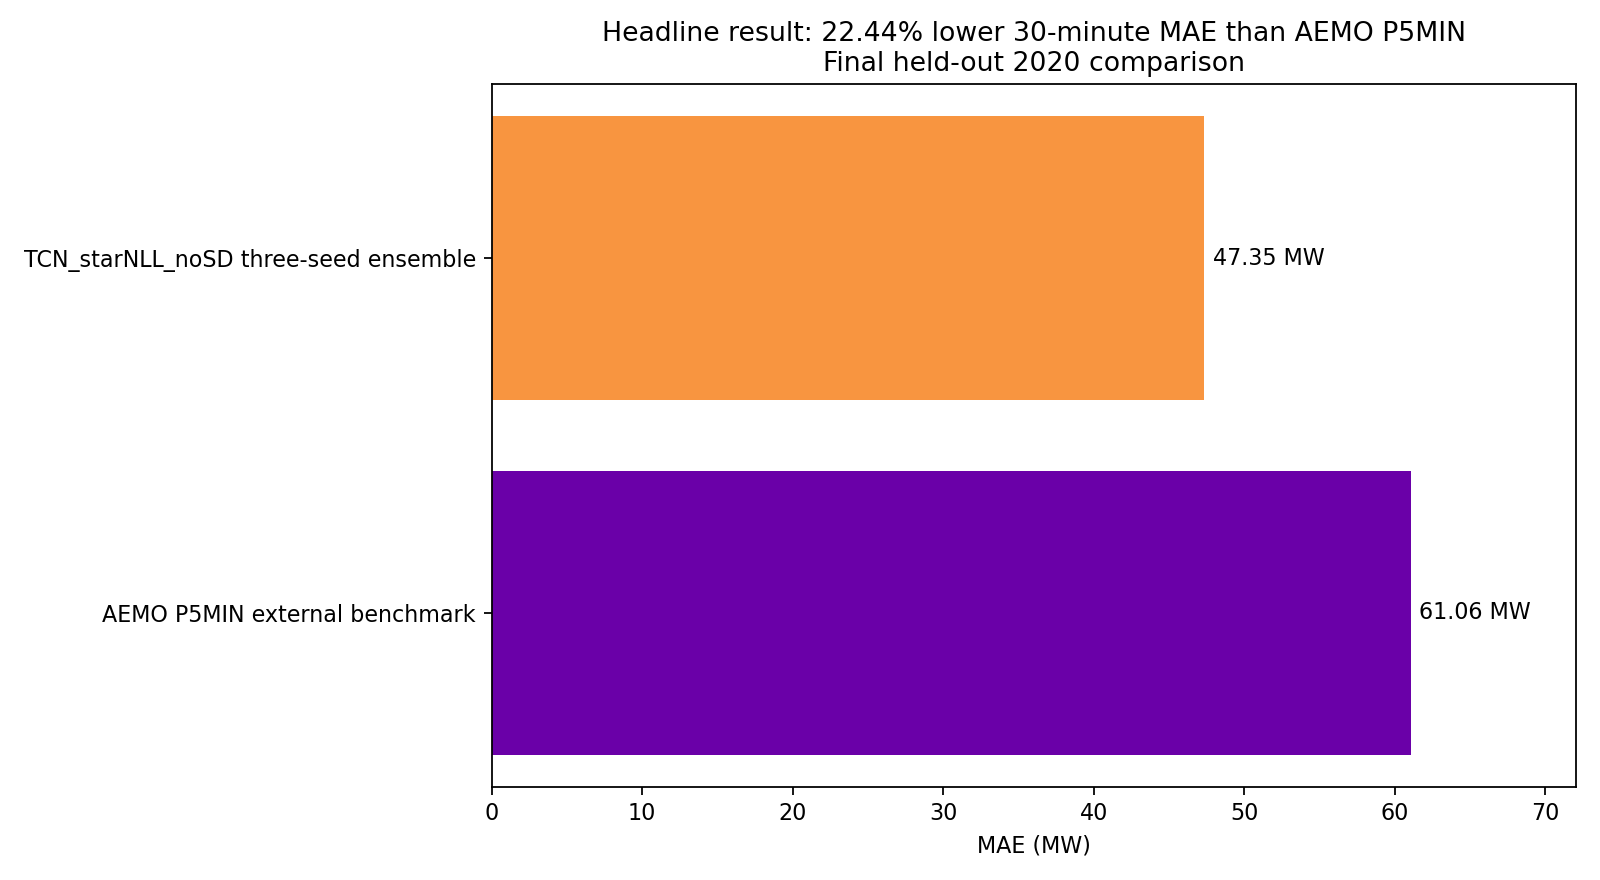
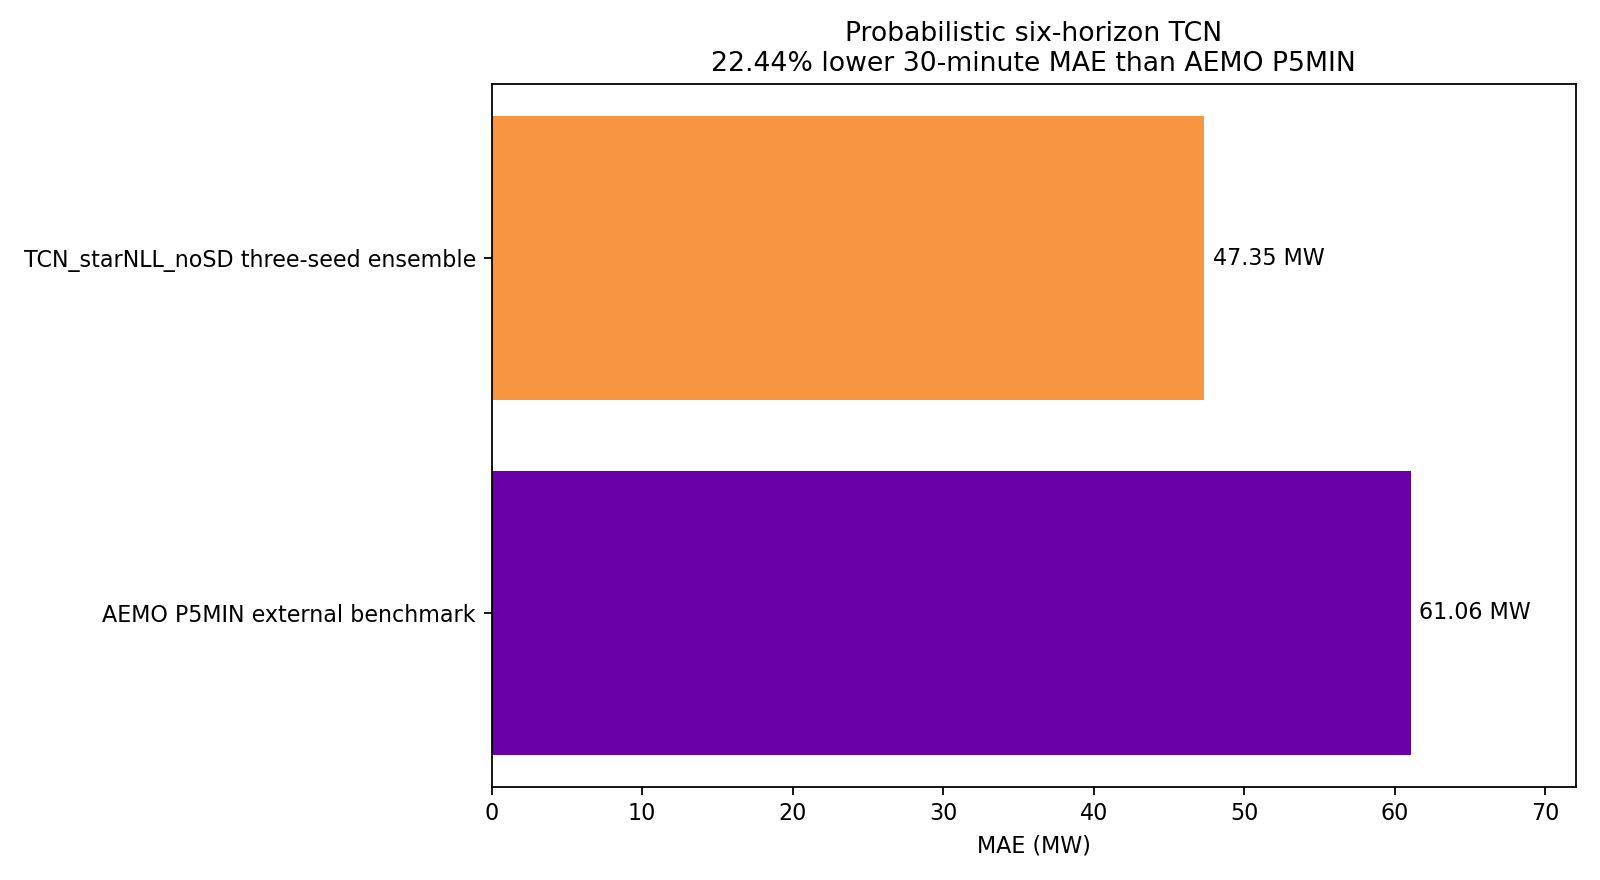
Highlight probabilistic forecast capability

Changed region(s): [[0.375, 0.0, 0.9062, 0.092]]

diff --git a/tools/build_reference_section.py b/tools/build_reference_section.py
@@ -313,8 +313,8 @@ def render_final_30m_figure(comparison: pd.DataFrame, output_directory: Path) ->
     bars = ax.barh(ordered["model"], ordered["mae_30m_mw"], color=colors)
     ax.set(
         title=(
-            f"Headline result: {gain:.2f}% lower 30-minute MAE than AEMO P5MIN\n"
-            "Final held-out 2020 comparison"
+            "Probabilistic six-horizon TCN\n"
+            f"{gain:.2f}% lower 30-minute MAE than AEMO P5MIN"
         ),
         xlabel="MAE (MW)",
         ylabel="",
@@ -379,7 +379,7 @@ def main() -> None:
     cells = [
         nbf.v4.new_markdown_cell(
             f"# 10 — Final held-out 2020 evaluation\n\n"
-            f"## Headline result: {gain:.2f}% lower 30-minute MAE than AEMO P5MIN\n\n"
+            f"## Headline result: probabilistic six-horizon forecasting with {gain:.2f}% lower 30-minute MAE than AEMO P5MIN\n\n"
             "The final comparison contains only the model selected from 2019 development evidence and the external AEMO P5MIN benchmark. "
             f"Both are scored at the equivalent 30-minute horizon on {len(common):,} common 2020 forecast origins."
         ),
@@ -387,6 +387,15 @@ def main() -> None:
             "## Frozen evaluation protocol\n\n"
             "`TCN_starNLL_noSD` was selected using 2019 validation only. Its seed 42, 142, and 242 members were then refitted on 2015–2019 for exactly 10 epochs, frozen, and combined as an equal-weight Student-t mixture before 2020 was scored. "
             "No other development candidate is ranked on the final period. AEMO is retained only as the independently published operational benchmark."
+        ),
+        nbf.v4.new_markdown_cell(
+            "## What the probabilistic head adds\n\n"
+            "At each of the 5, 10, 15, 20, 25, and 30-minute horizons, every ensemble member predicts a Student-t location, scale, and degrees of freedom. "
+            "The three member densities are combined as an equal-weight mixture, providing a full predictive distribution rather than only a point estimate. "
+            "That distribution supports prediction intervals, tail-risk measures, and probabilities of operational thresholds.\n\n"
+            "**Illustrative example.** If current demand is 7,000 MW and a 30-minute head has a change location of +120 MW, scale of 60 MW, and 5 degrees of freedom, the point forecast is 7,120 MW. "
+            "The same Student-t head assigns approximately 12% probability to demand exceeding 7,200 MW, because that event is `change > 200 MW`. "
+            "These values are explanatory only and are not a selected evaluation row."
         ),
         nbf.v4.new_markdown_cell(
             "## Headline 30-minute comparison\n\n"

diff --git a/README.md b/README.md
@@ -87,7 +87,7 @@ interpretable.
 
 ## Results
 
-### Headline result — 22.44% lower 30-minute MAE than AEMO P5MIN
+### Headline result — probabilistic six-horizon forecasting with 22.44% lower 30-minute MAE than AEMO P5MIN
 
 The final held-out comparison contains only the model selected from 2019
 development evidence and the published AEMO P5MIN external benchmark. Both are
@@ -99,7 +99,23 @@ origins common to them in the 2020 study period.
 | 1 | `TCN_starNLL_noSD` three-seed ensemble | 2019-selected champion | 105,400 | **47.355** | **64.308** | 2.672 | **22.44%** |
 | 2 | AEMO P5MIN external benchmark | Published external benchmark | 105,400 | 61.056 | 81.256 | -1.095 | Baseline |
 
-The extension ensemble reduces 30-minute MAE by **13.701 MW** over the
+The model produces more than a point forecast. At each of the 5, 10, 15, 20,
+25, and 30-minute horizons, every ensemble member predicts a Student-t
+location, scale, and degrees of freedom. The three member densities are
+combined as an equal-weight mixture. This provides a complete predictive
+distribution from which the system can derive central forecasts, prediction
+intervals, tail-risk measures, and probabilities of operational thresholds.
+
+For example, suppose current demand is 7,000 MW and an illustrative 30-minute
+head has a change location of +120 MW, scale of 60 MW, and 5 degrees of
+freedom. The point forecast is 7,120 MW, while the same head estimates the
+probability of demand exceeding 7,200 MW as
+`P(change > 200 MW)`, approximately **12%** under that Student-t distribution.
+The values in this example are illustrative; they are not a selected row from
+the evaluation data.
+
+For the directly comparable point-forecast benchmark, the extension ensemble
+reduces 30-minute MAE by **13.701 MW** over the
 equivalent published AEMO P5MIN forecast. The percentage gain is calculated as
 `(AEMO MAE - model MAE) / AEMO MAE × 100` on the common study-period origins.
 `TCN_starNLL_noSD` was selected using 2019 validation only; its three members
